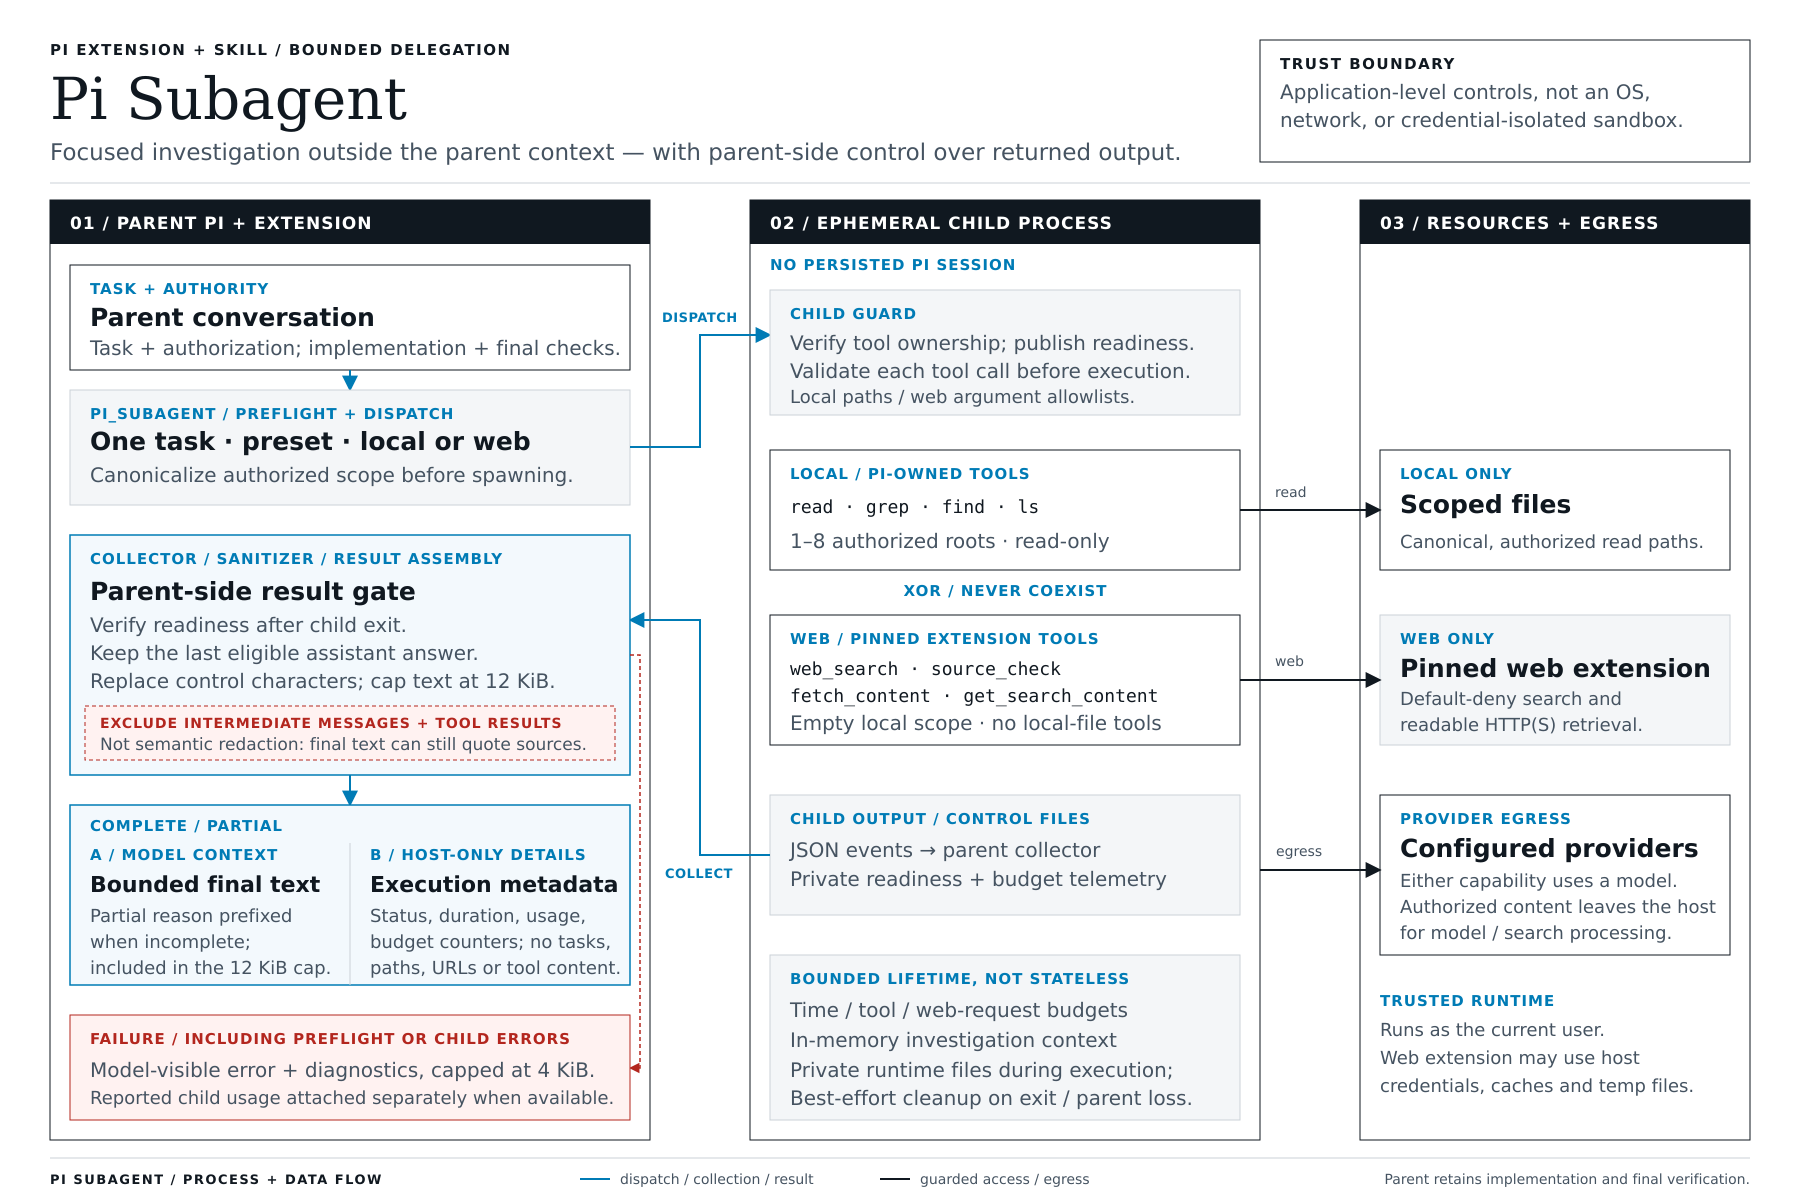
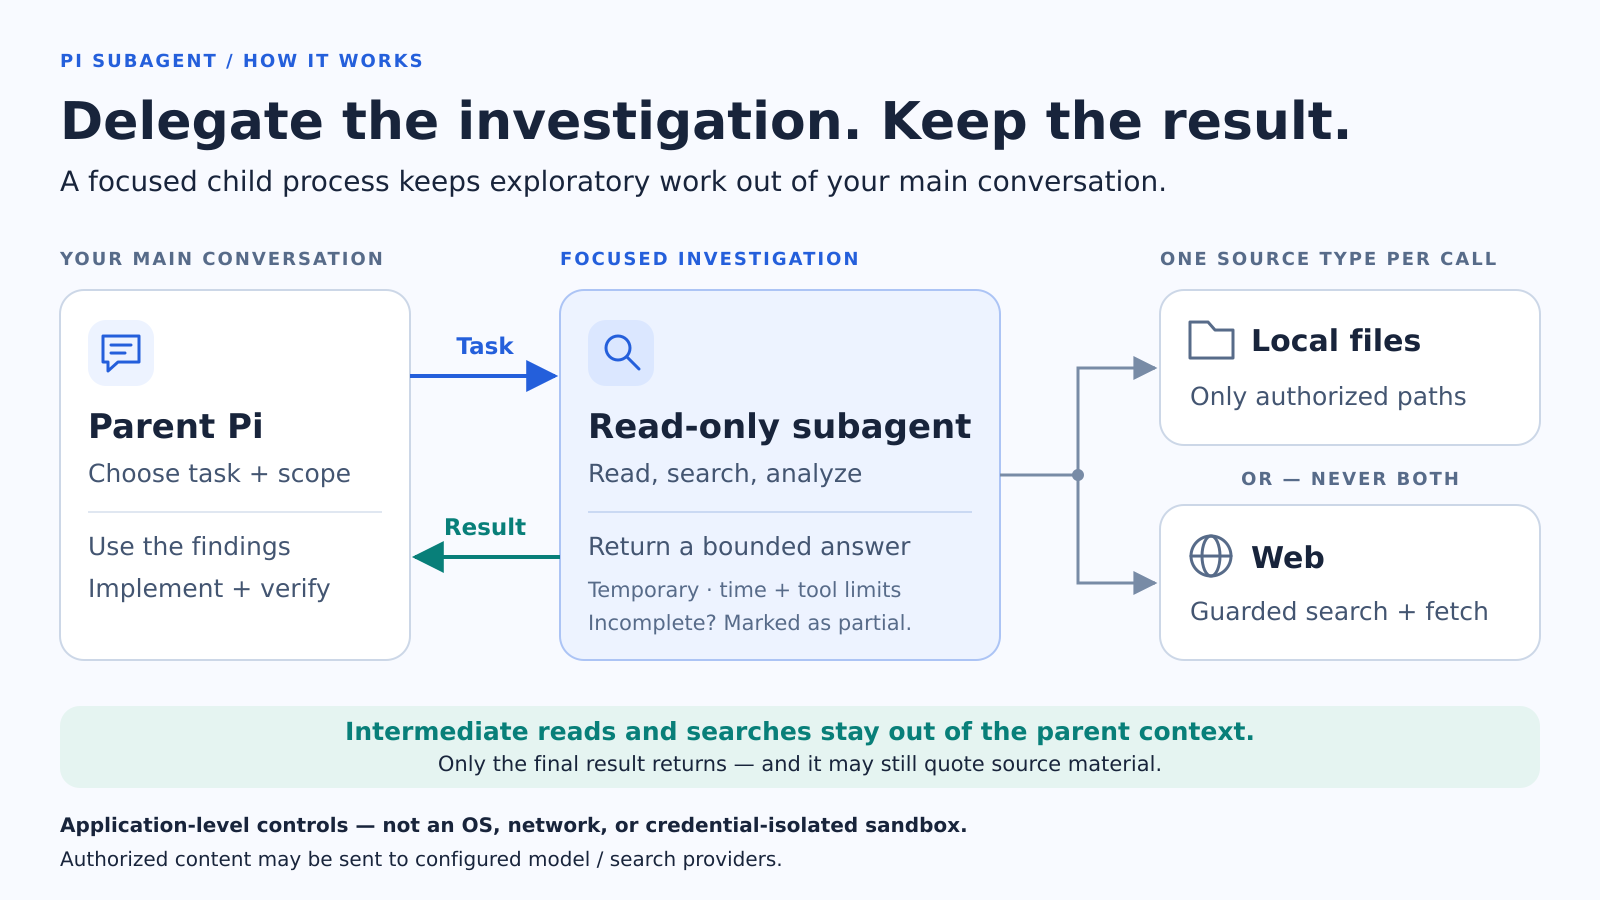
docs(pi-subagent): simplify architecture diagram around delegation flow

Changed region(s): [[0.0, 0.0311, 1.0, 0.9956], [0.7812, 0.9644, 0.9688, 0.9956], [0.5, 0.9644, 0.5938, 0.9956]]

diff --git a/packaging/pi-subagent/README.md b/packaging/pi-subagent/README.md
@@ -72,7 +72,7 @@ Newer stable versions are allowed without an upper bound, not guaranteed compati
 4. The child investigates within its time and resource budgets. The parent-side collector excludes intermediate messages and verifies readiness after the child exits before accepting its final answer.
 5. The parent model context receives a bounded JSON envelope with runtime-owned `status`, `partialReason`, and `outputTruncated` fields plus the untrusted child `answer`. `partialReason` identifies an incomplete result caused by a tool budget, investigation deadline, or model output limit; `outputTruncated` separately indicates byte-cap truncation. The entire envelope fits within the output cap. Content-free execution and budget metadata remain in host-only tool-result details without tasks, paths, queries, URLs, or tool content.
 
-[![Pi Subagent with parent-side collection and result assembly, an ephemeral child, separate local and web resource paths, and complete, partial, or error returns](https://raw.githubusercontent.com/MDGChamomile/pi-agent-kit/v0.2.8/live/extensions/pi-subagent/assets/pi-subagent-architecture.png)](https://github.com/MDGChamomile/pi-agent-kit/blob/v0.2.8/live/extensions/pi-subagent/assets/pi-subagent-architecture.png)
+[![Parent Pi delegates a scoped task to a read-only subagent, which investigates local files or the web and returns a bounded result while intermediate reads stay out of the parent context](https://raw.githubusercontent.com/MDGChamomile/pi-agent-kit/v0.2.8/live/extensions/pi-subagent/assets/pi-subagent-architecture.png)](https://github.com/MDGChamomile/pi-agent-kit/blob/v0.2.8/live/extensions/pi-subagent/assets/pi-subagent-architecture.png)
 
 Collection, control-character sanitization, and result assembly run in the parent extension. Complete/partial calls return bounded answer text and separate host-only metadata; failures return bounded error text. Sanitization does not redact source quotations from the final answer. `--no-session` disables persisted Pi sessions, not in-memory context or private runtime files.
 

diff --git a/live/extensions/pi-subagent/README.md b/live/extensions/pi-subagent/README.md
@@ -76,7 +76,7 @@ Restart Pi or run `/reload`. The model can then select the skill automatically, 
 4. The parent-side collector discards intermediate child turns and tool results. After the child exits, the parent verifies readiness before accepting the last valid non-tool assistant answer, sanitizing control characters, and limiting its size.
 5. The TUI reports per-call progress and, when settled, the elapsed time and estimated context injected into the parent.
 
-[![Pi Subagent with parent-side collection and result assembly, an ephemeral child, separate local and web resource paths, and complete, partial, or error returns](assets/pi-subagent-architecture.png)](assets/pi-subagent-architecture.png)
+[![Parent Pi delegates a scoped task to a read-only subagent, which investigates local files or the web and returns a bounded result while intermediate reads stay out of the parent context](assets/pi-subagent-architecture.png)](assets/pi-subagent-architecture.png)
 
 Collection, control-character sanitization, and result assembly run in the parent extension. Complete/partial calls return bounded answer text and separate host-only metadata; failures return bounded error text. Sanitization does not redact source quotations from the final answer. `--no-session` disables persisted Pi sessions, not in-memory context or private runtime files.
 
